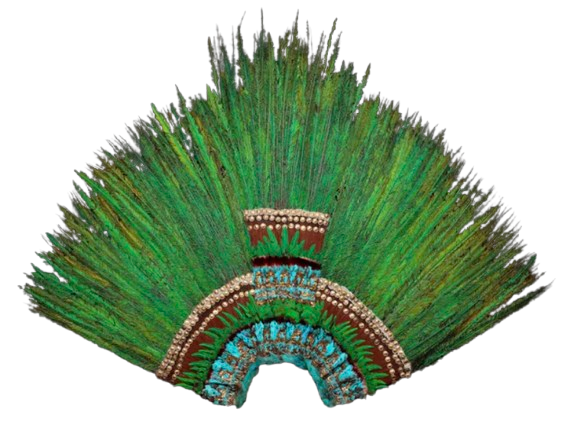
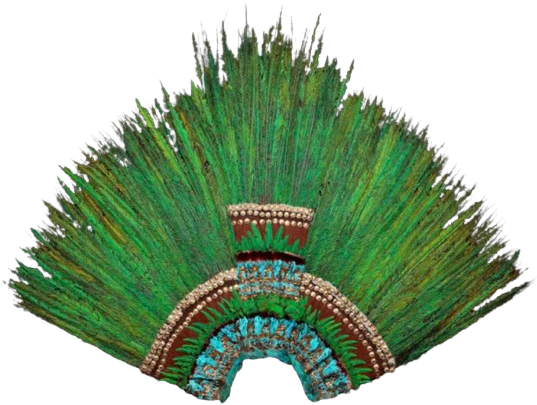
Cropped empty space from artifact PNGs and modified button appearance

diff --git a/js/sketch.js b/js/sketch.js
@@ -8,7 +8,7 @@ Instructor: Wes Modes
 
 // Constants
 const ARTIFACTS = [{name: 'moctezuma_headdress', size: 200, repatriated: false}, 
-                   {name: 'hoa_hakananai_a', size: 250, repatriated: false}, 
+                   {name: 'hoa_hakananai_a', size: 120, repatriated: false}, 
                    {name: 'tjentmutengebtiu_mummy', size: 500, repatriated: false}];
 const SLIDESHOW_IMG_NAMES = [['aztec_parade.jpg', 'mexican_flag.jpg', 'ritual_dress.jpg', 'tenochtitlan.jpg'],
                              ['moai_hill.jpg', 'moai_line.jpg', 'rapa_nui_moai.jpg', 'rapa_nui_overlook.jpg'],
@@ -31,8 +31,8 @@ const DESCRIPTIONS = [`Believed to have belonged to Moctezuma II, the Aztec empe
 const FADE_RATE = 2; // Change in tint per frame
 const LERP_RATE = 0.1; // Rate of interpolation for artifact movement
 const HANDLE_SIZE = 40; // Size of grabbable area around artifact
-const BUTTON_SPACING = 150; // Distance from artifact to buttons
-const BUTTON_SIZE = 30;
+const BUTTON_SPACING = 255; // Distance from artifact to buttons
+const BUTTON_SIZE = 50;
 
 // Globals
 let currPos; // Current artifact position
@@ -118,13 +118,14 @@ function button(x, y, t) {
   }
   stroke(0);
   textAlign(CENTER, CENTER);
-  textSize(24);
+  textSize(BUTTON_SIZE);
   text(t, x, y);
   return result;
 }
 
 function draw() {
   background(255);
+  cursor(ARROW);
 
   // RIGHT SIDE SLIDESHOW //
   let slideshow = slideshows[artifactIndex];
@@ -151,14 +152,14 @@ function draw() {
   image(museumImg, width / 4, height / 2);
 
   // Button logic for changing artifacts
-  if(button(museumPos.x - BUTTON_SPACING, museumPos.y, "<<")) {
+  if(button(museumPos.x - BUTTON_SPACING, museumPos.y, "<")) {
     artifactIndex -= 1;
     if(artifactIndex < 0) {
       artifactIndex = ARTIFACTS.length - 1;
     }
     checkRepatriation();
   }
-  if(button(museumPos.x + BUTTON_SPACING, museumPos.y, ">>")) {
+  if(button(museumPos.x + BUTTON_SPACING, museumPos.y, ">")) {
     artifactIndex += 1;
     if(artifactIndex >= ARTIFACTS.length) {
       artifactIndex = 0;
@@ -172,7 +173,7 @@ function draw() {
       isDragging = true;
     }
     cursor(HAND);
-  } else cursor(ARROW);
+  }
 
   if (!mouseIsPressed) {
     isDragging = false;
